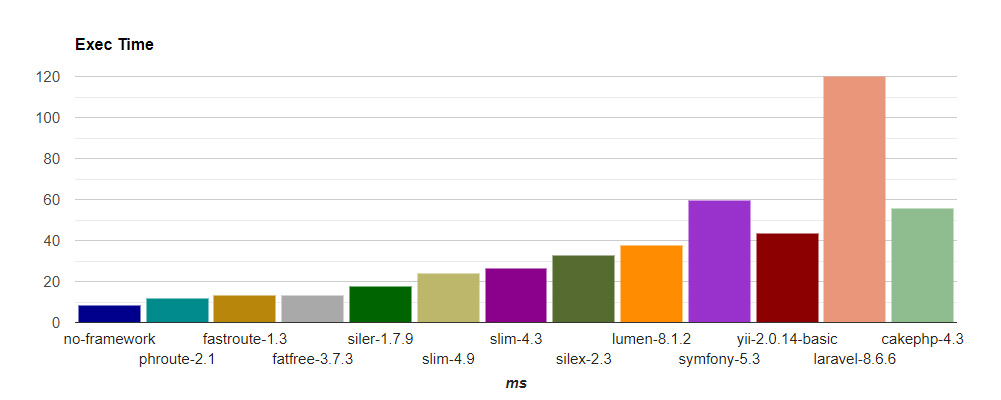
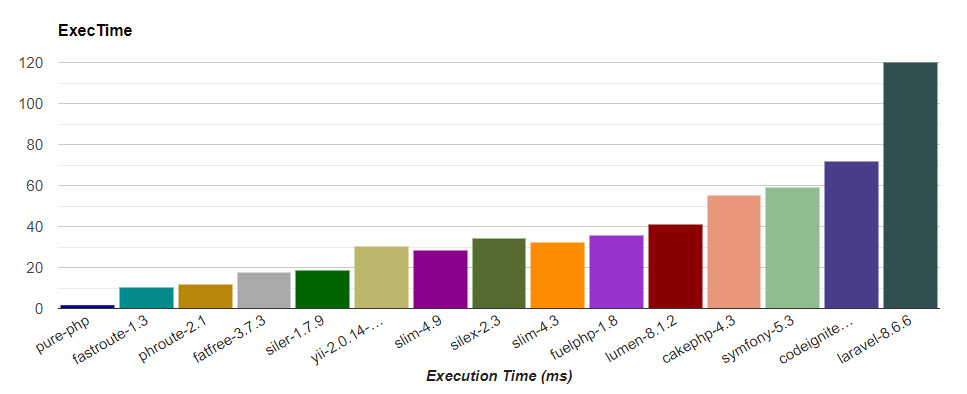
Update README.MD & shots

diff --git a/README.md b/README.md
@@ -1,4 +1,4 @@
-# PHP Frameworks Bench v1.1
+# PHP Frameworks Bench v1.2
 
 This project attempts to measure minimum overhead (minimum bootstrap cost) of PHP frameworks in the real world.
 
@@ -24,15 +24,15 @@ This is `master` branch.
 
 Some people may think using default configuration is not fair. But I think a framework's default configuration is an assertion of what it is. Default configuration is a good starting point to know a framework. And I can't optimize all the frameworks. Some frameworks are optimized, some are not, it is not fair. So I don't remove any components/configurations.
 
-If you find something wrong with my code, please feel free to send Pull Requests. But please note optimizing only for "Hello World" is not acceptable. Building fastest "Hello World" application is not the goal in this project.
+If you find something wrong with my code, please feel free to send Pull Requests. But please note optimizing only for "Hello World" is not acceptable! Building fastest "Hello World" application is not the goal in this project.
 
 ## Results
 
 ### Benchmarking Environment
 
-* Windows 10 64bit (bash executed on WLS 2)
+* Windows 10 64bit (bash executed on WSL 2)
   * PHP 8.0 (XAMPP x64)
-  * CPU Core i7 2600K - 4Ghz
+  * CPU Core i7 2600K@4Ghz
   * Memory 16G 
 
 ### Hello World Benchmark
@@ -48,21 +48,21 @@ These are my benchmarks, not yours. **I encourage you to run on your (production
 
 |framework          |requests per second|relative|peak memory|relative|
 |-------------------|------------------:|-------:|----------:|-------:|
-|no-framework       |           1,188.97| 5,944.9|       0.42|     0.4|
-|phroute-2.1        |             675.08| 3,375.4|       0.58|     0.6|
-|fastroute-1.3      |             652.27| 3,261.4|       0.56|     0.6|
-|fatfree-3.7.3      |             499.70| 2,498.5|       1.67|     1.7|
-|siler-1.7.9        |             410.07| 2,050.4|       1.18|     1.2|
-|slim-4.9           |             264.31| 1,321.6|       1.60|     1.6|
-|slim-4.3           |             218.55| 1,092.8|       1.55|     1.6|
-|silex-2.3          |             199.60|   998.0|       2.28|     2.3|
-|lumen-8.1.2        |             139.16|   695.8|       3.45|     3.5|
-|symfony-5.3        |              93.52|   467.6|       5.49|     5.5|
-|yii-2.0.14-basic   |              90.24|   451.2|       4.08|     4.1|
-|laravel-8.6.6      |              38.58|   192.9|      11.90|    11.9|
-|cakephp-4.3        |               0.20|     1.0|       4.49|     4.5|
-
-Note: This benchmarks are limited by `ab` performance. See [#62](https://github.com/kenjis/php-framework-benchmark/issues/62).
+|pure-php           |           2,476.19| 2,476.2|       0.42|     0.4|
+|fastroute-1.3      |           1,208.93| 1,208.9|       0.57|     0.6|
+|phroute-2.1        |           1,201.83| 1,201.8|       0.58|     0.6|
+|fatfree-3.7.3      |             695.23|   695.2|       1.67|     1.7|
+|siler-1.7.9        |             520.31|   520.3|       1.19|     1.2|
+|yii-2.0.14-basic   |             269.47|   269.5|       2.76|     2.8|
+|slim-4.9           |             239.09|   239.1|       1.60|     1.6|
+|silex-2.3          |             224.29|   224.3|       2.28|     2.3|
+|slim-4.3           |             223.43|   223.4|       1.55|     1.6|
+|fuelphp-1.8        |             180.84|   180.8|       2.72|     2.7|
+|lumen-8.1.2        |             162.19|   162.2|       3.45|     3.5|
+|cakephp-4.3        |             108.52|   108.5|       4.49|     4.5|
+|symfony-5.3        |              96.57|    96.6|       5.49|     5.5|
+|codeigniter-4.1.5  |              75.94|    75.9|       3.37|     3.4|
+|laravel-8.6.6      |              39.96|    40.0|      11.90|    11.9|
 
 ## How to Benchmark
 
@@ -122,14 +122,16 @@ If you want to see current configuration, run `sudo sysctl -a`.
 Note: This project is based on
 [php-framework-benchmark](https://github.com/kenjis/php-framework-benchmark). It was very old and no longer maintained, so I decided to split it from the origin repo and update it separately.
 
+* [CakePHP](https://github.com/cakephp/cakephp)
+* [CodeIgniter](https://github.com/codeigniter4/CodeIgniter4)
+* [FastRoute](https://github.com/nikic/FastRoute)
 * [FatFree](https://github.com/bcosca/fatfree)
-* [Siler](https://github.com/leocavalcante/siler)
+* [FuelPHP](https://github.com/fuelphp/fuelphp)
 * [Laravel](https://github.com/laravel/laravel)
 * [Lumen](https://github.com/laravel/lumen)
+* [PhRoute](https://github.com/mrjgreen/phroute)
+* [Siler](https://github.com/leocavalcante/siler)
 * [Silex](https://github.com/silexphp/Silex)
 * [Slim](https://github.com/slimphp/Slim)
 * [Symfony](https://github.com/symfony/symfony)
 * [Yii](https://github.com/yiisoft/yii2)
-* [CakePHP](https://github.com/cakephp/cakephp)
-* [FastRoute](https://github.com/nikic/FastRoute)
-* [PhRoute](https://github.com/mrjgreen/phroute)
